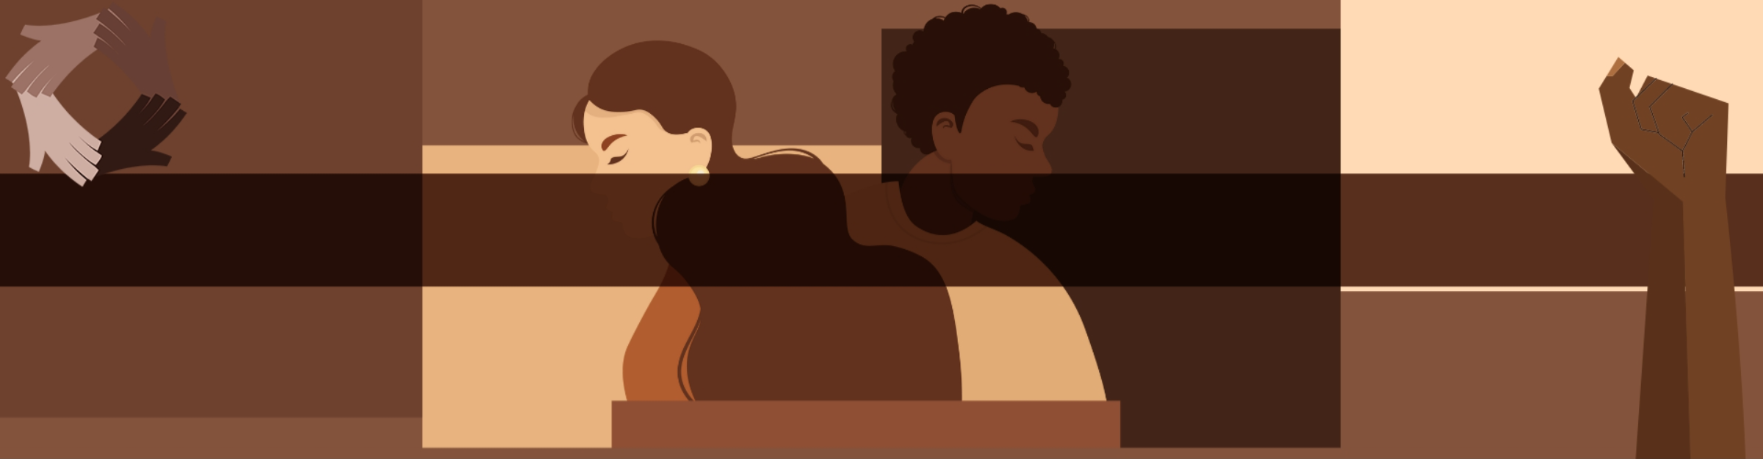
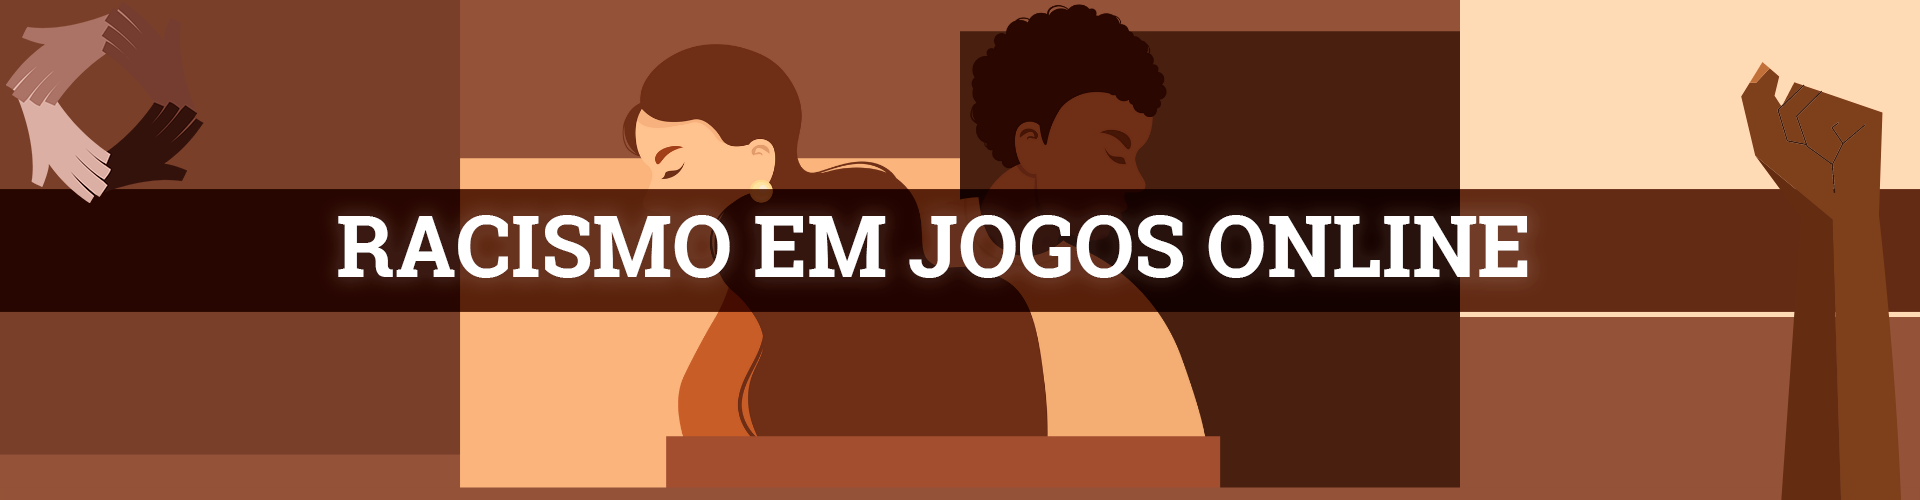
Last one?

diff --git a/index.html b/index.html
@@ -302,7 +302,6 @@
 
       <div class="Separator" id="SeparatorPatriarchy">
         <img src="./assets/images/PatriarchySeparator.png">
-        <div>MACHISMO EM JOGOS ONLINE</div>
       </div>
       <div class="_flexCentered TextSection" style="background-color: #aa5d8e;">
         <div class="TextBlock">
@@ -317,7 +316,10 @@
           <div class="Text">Como por exemplo no campeonato mundial de League of Legends, realizado em outubro de 2021. Dos times destacados, nenhuma mulher foi escalada para jogar. Quando houve <a href="https://www.espn.com.br/esports/artigo/_/id/5289513/primeiro-time-feminino-no-lol-mundial-vaevictis-estreia-com-desrespeito-na-liga-russa">um time especificamente feminino</a>, na liga Russa de 2019, as jogadoras foram altamente desrespeitadas.</div>
           <div class="Text">Um importante ponto a ser ressaltado sobre o campeonato é de que na escalação de Casters no início do ano, ou seja, comentaristas, analistas e narradores profissionais dos jogos em tempo real, dos 15 contratados, apenas quatro eram mulheres e somente uma era afrodescendente.</div>
           <div class="Text">Já no meio do ano, o número de jogadoras tem aumentado e diversificado mais por conta de mudanças nas diretrizes da empresa.</div>
-          <div class="Text">Outras questões também têm sido levantadas com o tempo. No início do ano, <a href="https://brasil.elpais.com/esportes/2021-02-08/assedio-sexual-estupro-e-racismo-a-onda-de-denuncias-que-furou-a-bolha-toxica-dos-gamers.html">cinco profissionais do cenário foram expostos por assédio e abusos nas redes sociais</a> desencadeando em diversos outros crimes que foram sendo explanados para fora da bolha gamer.</div>
+          <div class="Text">
+            <div class="ImgLeft"><img src="./assets/images/PostItPatriarchy1.png" style="background-size: cover; max-width: 300px;"></div>
+            Outras questões também têm sido levantadas com o tempo. No início do ano, <a href="https://brasil.elpais.com/esportes/2021-02-08/assedio-sexual-estupro-e-racismo-a-onda-de-denuncias-que-furou-a-bolha-toxica-dos-gamers.html">cinco profissionais do cenário foram expostos por assédio e abusos nas redes sociais</a> desencadeando em diversos outros crimes que foram sendo explanados para fora da bolha gamer.
+          </div>
           <div class="Text">Será que as mulheres têm liberdade para participar, treinar e competir nos cenários?</div>
 
           <div class="CenteredImg"><img class="CenteredImg" src="./assets/images/WomanVoice.png" style="max-width: 700px;"></div>
@@ -348,7 +350,10 @@
           <div class="Text">Mas não é sempre assim, outra jogadora competitiva do mesmo jogo, Brenda Nunes, relata ter desistido de fazer dos jogos uma atividade mais séria por conta do preconceito.</div>
         
           <h2>Brenda</h2>
-          <div class="Text">Brenda Nunes, 17,  é, atualmente, uma jogadora amadora competitiva de Valorant, mas começou na vida gamer mais cedo, no vídeo game, em games como R6 e Fortnite.</div>
+          <div class="Text">
+            <div class="ImgRight"><img src="./assets/images/PostItPatriarchy2.png" style="background-size: cover; max-width: 300px;"></div>
+            Brenda Nunes, 17,  é, atualmente, uma jogadora amadora competitiva de Valorant, mas começou na vida gamer mais cedo, no vídeo game, em games como R6 e Fortnite.
+          </div>
           <div class="Text">Ela é mais uma como tantas outras mulheres que escuta, rotineiramente, comentários preconceituosos em partidas, seja por apresentar apenas um nickname feminino, como por sua voz.</div>
           <div class="Text"><i>“No vídeo game era o meu nome real, tava lá Brenda, às vezes eu mal entrava e o pessoal já começava a falar alguma bosta, alguma coisa relacionada, tipo “ahh é mulher, é mulher não, é travesti” coisa bem desnecessária sabe, sendo que eu só entrei porque eu queria jogar, porque eu queria me divertir. Isso me desanimava total, então eu parava e ia assistir alguma coisa. Agora no computador eu troquei, mudei o meu nick.”</i></div>
           <div class="Text">Como relatado, mais do que o comum machismo e assédio, quem quer ofender utiliza até da identidade travesti para tal. </div>
@@ -373,7 +378,6 @@
       
       <div class="Separator" id="SeparatorRacism">
         <img src="./assets/images/RacismSeparator.png">
-        <div>RACISMO NOS JOGOS ONLINE</div>
       </div>
       <div class="_flexCentered TextSection"  style="background-color: #84533c;">
         <div class="TextBlock">
@@ -463,7 +467,10 @@
           <div class="Text">A profissional cita a construção da sociedade, toda a base estrutural sendo regida por pré conceitos fundamentados e estudados pela história, antropologia e psicanálise, algo que vem sido levado até os dias atuais e tomando novas proporções por conta da internet.</div>
           <div class="Text">Referente a mesma indagação enfrentada por João Lucas, Beatriz aponta sobre o conforto que os agressores sentem ao proferirem ataques de ódio no meio das partidas. “As redes sociais propiciam os ataques, pois é uma possibilidade das pessoas falarem, emitirem suas opiniões, sem a princípio, confrontar com o outro, cara a cara”.</div>
           <div class="Text">Ela também enfatiza a necessidade do imaginário nessas questões, afinal, não se vê o rosto do outro lado, apenas uma amplificação narcisista que leva as pessoas a serem hostis gratuitamente “São pessoas que precisam lidar com a diferença, seus ataques, na verdade, são questões que não estão nada resolvidas e que deveriam resolver, mas preferem o ataque, o ódio”. Sobre a perspectiva dessas pessoas que manifestam hostilidade, Beatriz acrescenta: “Vemos sujeitos nos seus recalques e até aqueles que não querem deixar de ter o poder, de hierarquizar a sociedade”.</div>
-          <div class="Text">Estar em um lugar competitivo pode ser benéfico para uns, trazendo o lado esportivo entre concorrentes, porém, em ambientes online tem-se visto outro tipo de experiência, gerando um comportamento maléfico para os demais. No caso de todas as personalidades apresentadas ao longo desta reportagem, seja a trabalho ou como um hobbie, estar em meios cujo preconceito prevalece pode colocar em risco sua saúde mental. </div>
+          <div class="Text">
+            <div class="ImgRight"><img src="./assets/images/PostItPsychologist.png" style="background-size: cover; max-width: 300px;"></div>
+            Estar em um lugar competitivo pode ser benéfico para uns, trazendo o lado esportivo entre concorrentes, porém, em ambientes online tem-se visto outro tipo de experiência, gerando um comportamento maléfico para os demais. No caso de todas as personalidades apresentadas ao longo desta reportagem, seja a trabalho ou como um hobbie, estar em meios cujo preconceito prevalece pode colocar em risco sua saúde mental.
+          </div>
           <div class="Text">Afinal, tais preconceitos podem vir de forma sutis também, sendo camuflados inclusive na cabeça da vítima que não consegue identificar o que está sentindo. A psicóloga explica: “Não se trata de uma situação natural, mas envolve uma construção histórica, social. Por vezes, entranha-se em uma interseccionalidade, que seria: classe social, questão racial, gênero. Por fim, envolve as fantasias e as atribuições de valores de cada pessoa. Eles se normatizam e se encerram apenas na descrição destes.”</div>
           <div class="Text">Apesar de ser árdua a trajetória na internet, a própria comunidade do esports vem se esforçando para reforçar a necessidade da representatividade e trazer conforto para todos que buscam se entreter no ciberespaço. </div>
           <div class="Text">Suzane relembra dos ataques que a streamer Sher Machado sofreu em suas lives. O quão inspirador foi para ela ver a jogadora não se abalar. Isso é algo que a motiva a trabalhar mais em suas transmissões. Assim como ressaltado pela psicóloga “Mesmo tendo conflitos, crises, dar voz às narrativas diversas, com certeza é um ganho tremendo para a humanidade”.</div>
